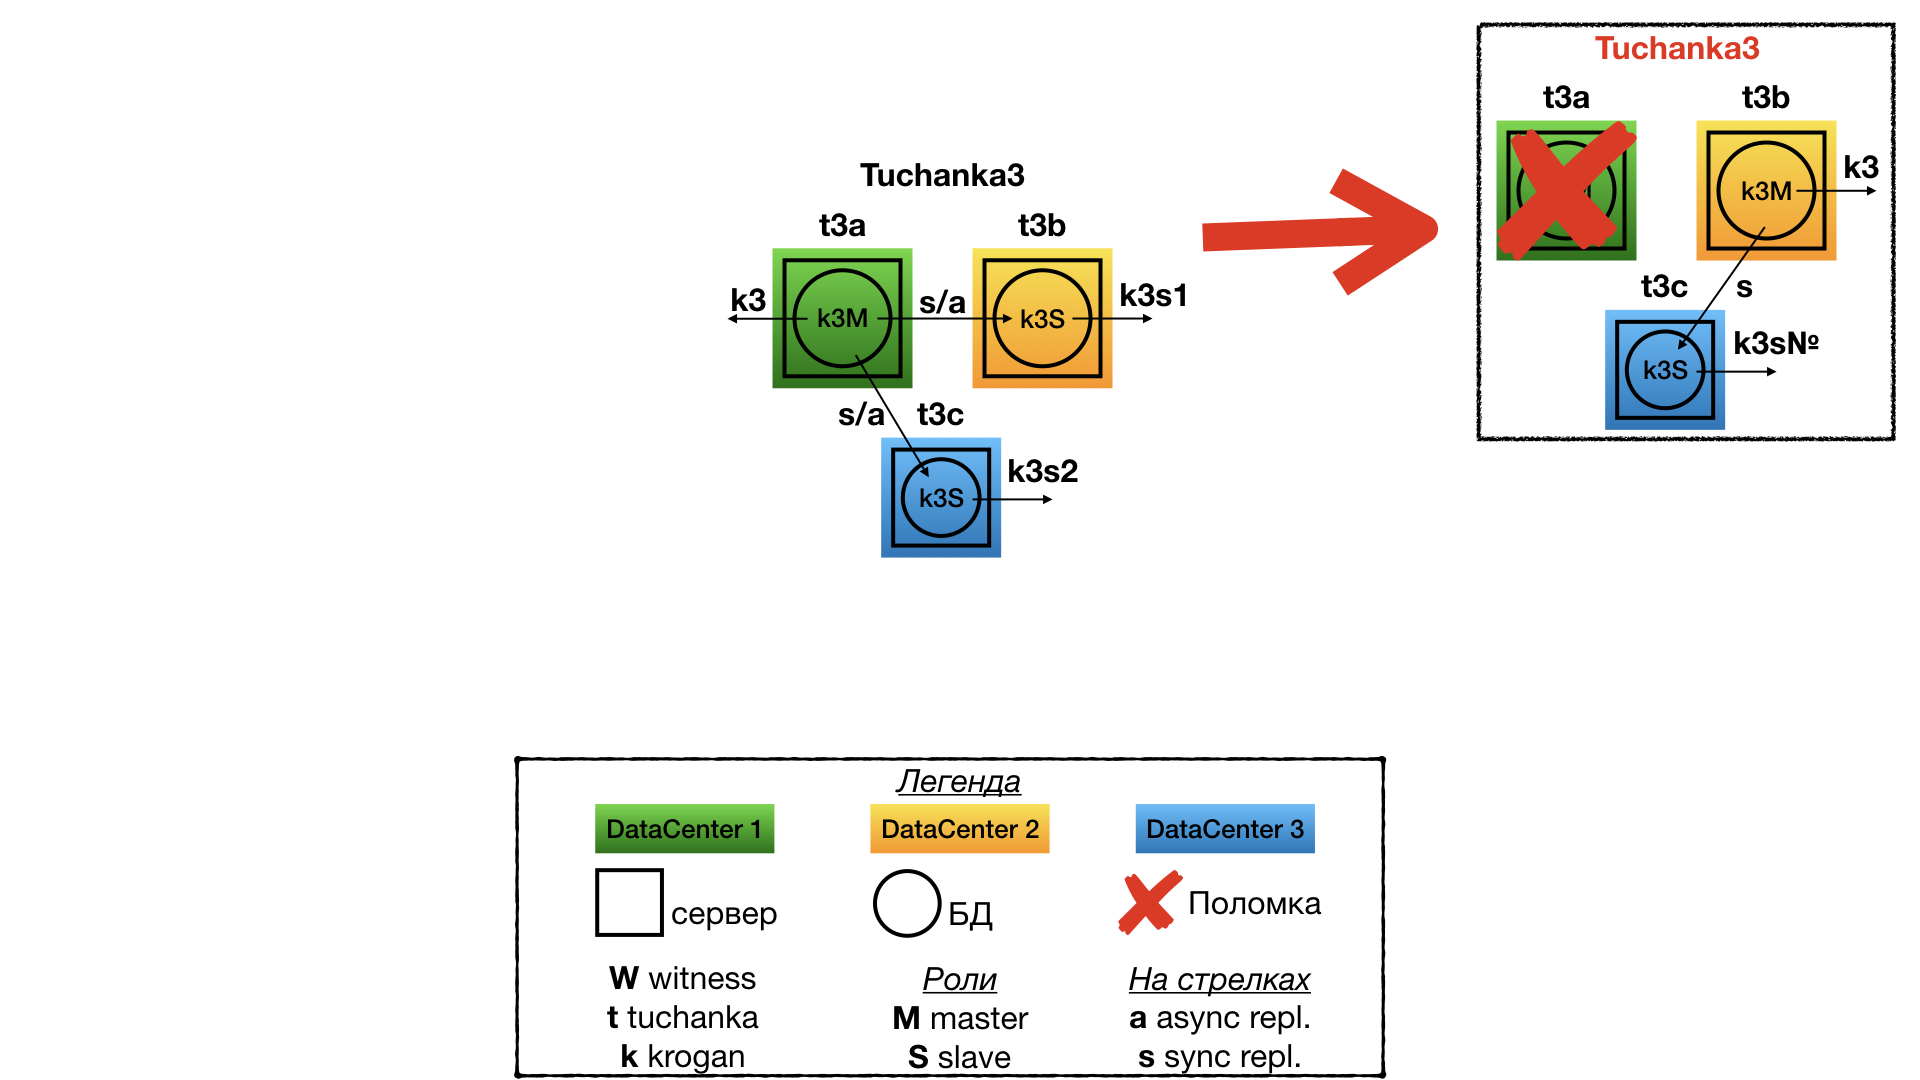
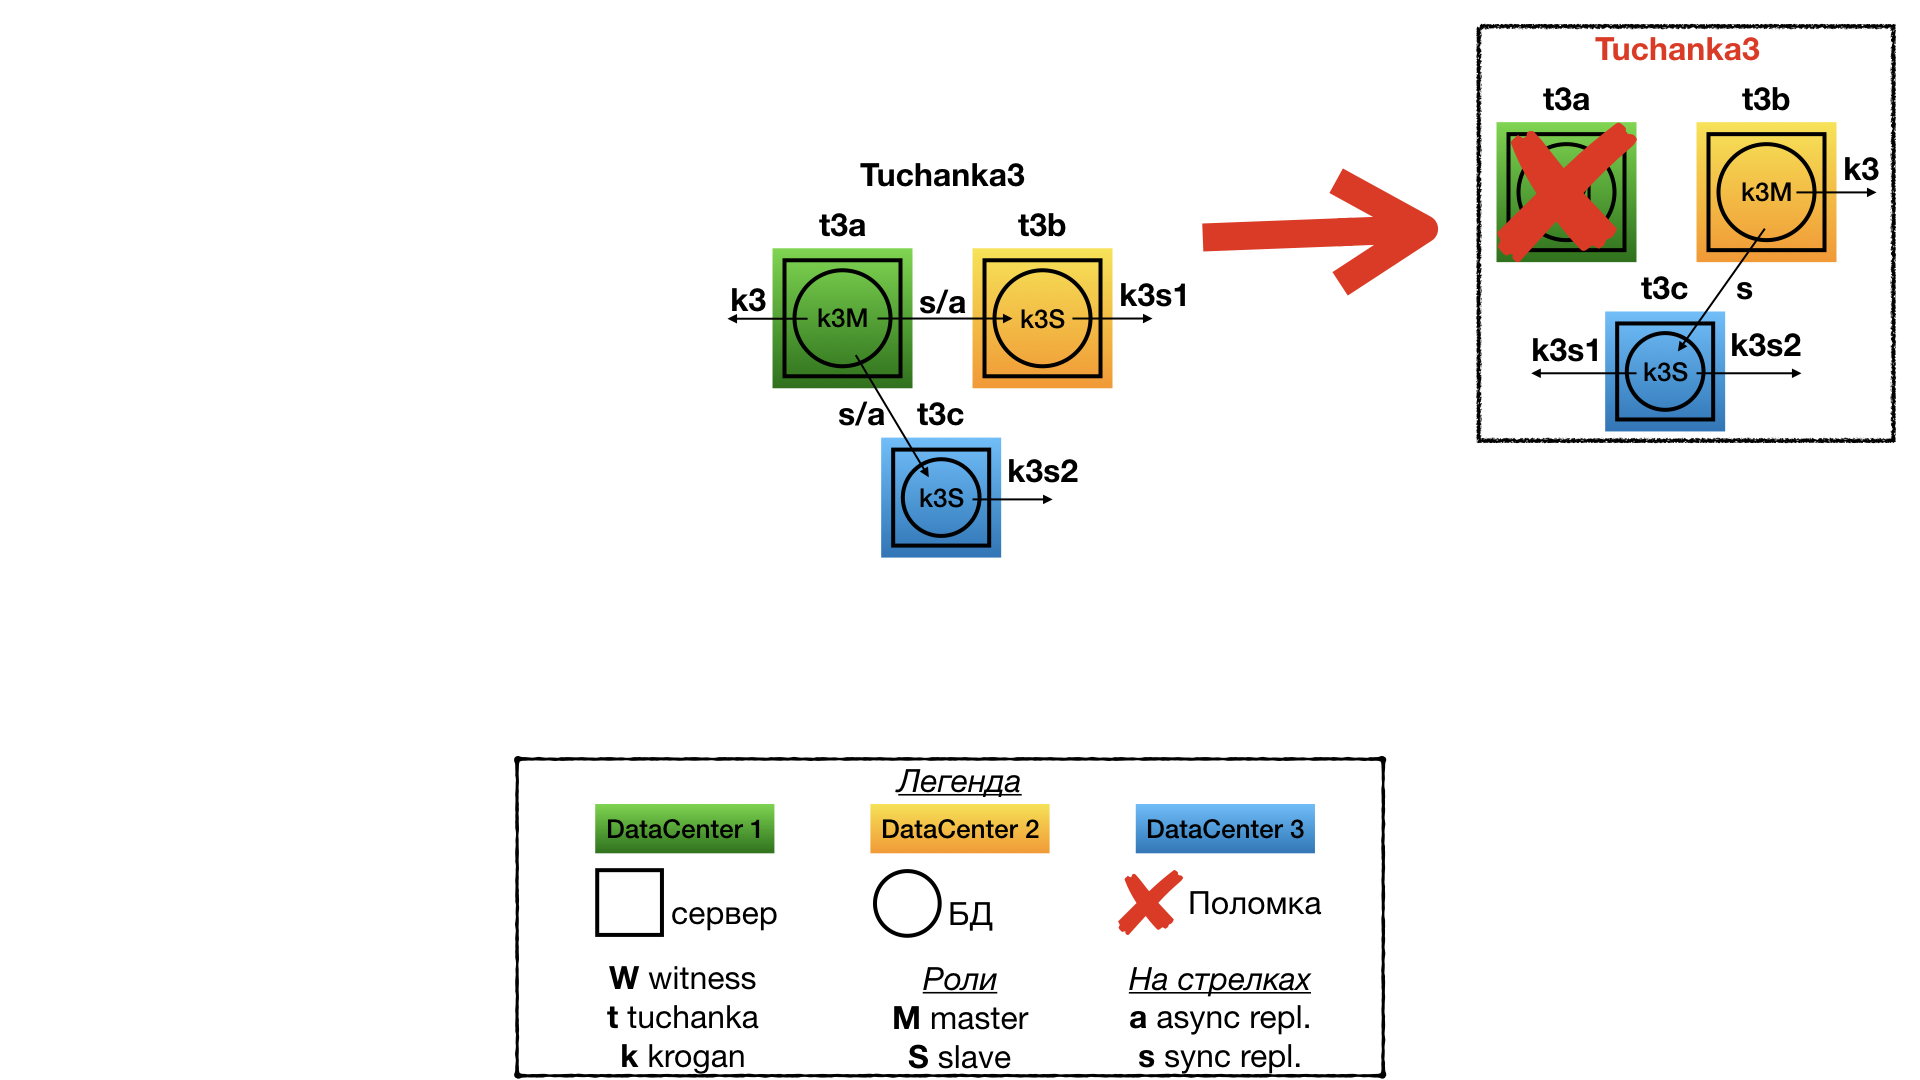
Tuchanka3: теперь оба slave ip отказоустойчивы.

diff --git a/README.md b/README.md
@@ -74,11 +74,11 @@
 ## Tuchanka3 (3 датацентра)
 ### Структура
 ![Tuchanka3](images/HAPgSQLStructure.008.png)
-Это кластер на случай когда есть три полноценно работающих датацентра, на каждом из которых есть полноценно работающий сервер БД. В этом случае quorum device (сервер witness) не нужен. На одном датацентре работает мастер, на двух других рабы. Репликация синхронная типа ANY (slave1, slave2), т.е. подтверждение о коммите клиенту будет если любой из рабов первым ответит, что он коммит принял. На ресурсы указывает один float IP для мастера и 2 для рабов. Здесь применимы все те же рассуждения об полезности *sql proxy*, что и для [Tuchanka4](#tuchanka4-много-рабов).
+Это кластер на случай когда есть три полноценно работающих датацентра, на каждом из которых есть полноценно работающий сервер БД. В этом случае quorum device (сервер witness) не нужен. На одном датацентре работает мастер, на двух других рабы. Репликация синхронная типа ANY (slave1, slave2), т.е. подтверждение о коммите клиенту будет если любой из рабов первым ответит, что он коммит принял. На ресурсы указывает один float IP для мастера и 2 для рабов, в отличии от Tuchanka4 все 3 float IP отказоустойчивы. Для балансировки read-only sql запросов можно использовать *sql proxy* (с отдельной отказоустойчивостью), либо половине клиентов назначить один рабский float IP, другой половине второй.
 
 ### Отказ Tuchanka3
 ![failure Tuchanka3](images/HAPgSQLStructure.009.png)
-При отказе одного из датацентров, остаются два. На одном поднят мастер и float IP от мастера, на втором раб и один из двух рабских float IP (по причине, которую я уже описал в "[Отказ Tuchanka4](#отказ-tuchanka4)". Между ними синхронная репликация. Так же кластер сохранит информацию об закоммиченных и подтвержденных транзакциях (не будет потери информации) в случае уничтожения двух датацентров (при условии, если их уничтожение произошло не одновременно, при втором отказе).
+При отказе одного из датацентров, остаются два. На одном поднят мастер и float IP от мастера, на втором раб и оба рабских float IP (должен быть двукратный запас по ресурсам на инстансе, чтобы принять все подключения с обоих рабских float IP). Между мастеров и рабом синхронная репликация. Так же кластер сохранит информацию об закоммиченных и подтвержденных транзакциях (не будет потери информации) в случае уничтожения двух датацентров (при условии, если их уничтожение произошло не одновременно, при втором отказе).
 
 # Список файлов
 #### README.md
